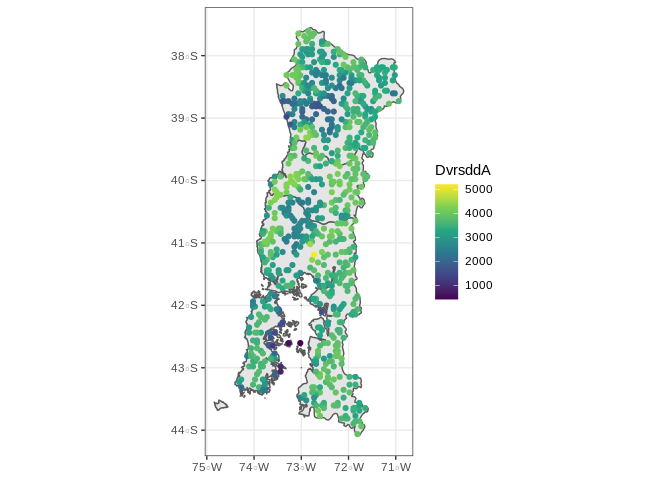
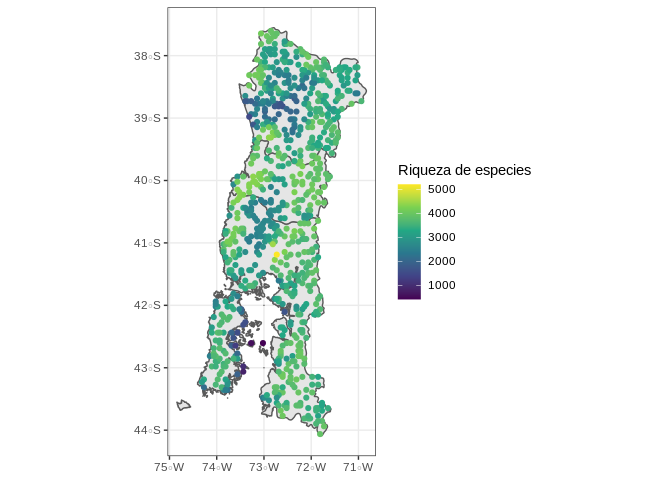
Cambio figuras

diff --git a/README.md b/README.md
@@ -5,18 +5,36 @@ Proyecto final
 
 El objetivo del trabajo final es el realizar una presentación grupal,
 donde usando generen el mejor modelo posible para explicar los patrones
-de diversidad encontrados en el sur de Chile, en las regiones de
-Araucanía, Los Lagos y Los Ríos (ver figura
-<a href="#fig:Diversidad">1.1</a>)
+de Riqueza de especies de aves encontrados en el sur de Chile, en las
+regiones de Araucanía, Los Lagos y Los Ríos (ver figura
+<a href="#fig:Diversidad">1.1</a>). Los datos del número de especies en
+cada uno de los sitos puede ser encontrado en el archivo
+`Diversidad.shp`. Para esto y como variables disponibles pueden usar la
+base de datos espaciales `Stack.rds`, los cuales pueden ser visualizados
+en la figura
+<a href="#fig:Variables">1.2</a>)
 
 <div class="figure">
 
-<img src="README_files/figure-gfm/Diversidad-1.png" alt="Número de especies de mamíferos en el sur de Chile de acuerdo a la distribución de especies determinada por la IUCN"  />
+<img src="README_files/figure-gfm/Diversidad-1.png" alt="Número de especies de aves en el sur de Chile de acuerdo a la distribución de especies determinada por la IUCN"  />
 
 <p class="caption">
 
-Figure 1.1: Número de especies de mamíferos en el sur de Chile de
-acuerdo a la distribución de especies determinada por la IUCN
+Figure 1.1: Número de especies de aves en el sur de Chile de acuerdo a
+la distribución de especies determinada por la
+IUCN
+
+</p>
+
+</div>
+
+<div class="figure">
+
+<img src="README_files/figure-gfm/Variables-1.png" alt="Variables explicativas"  />
+
+<p class="caption">
+
+Figure 1.2: Variables explicativas
 
 </p>
 
